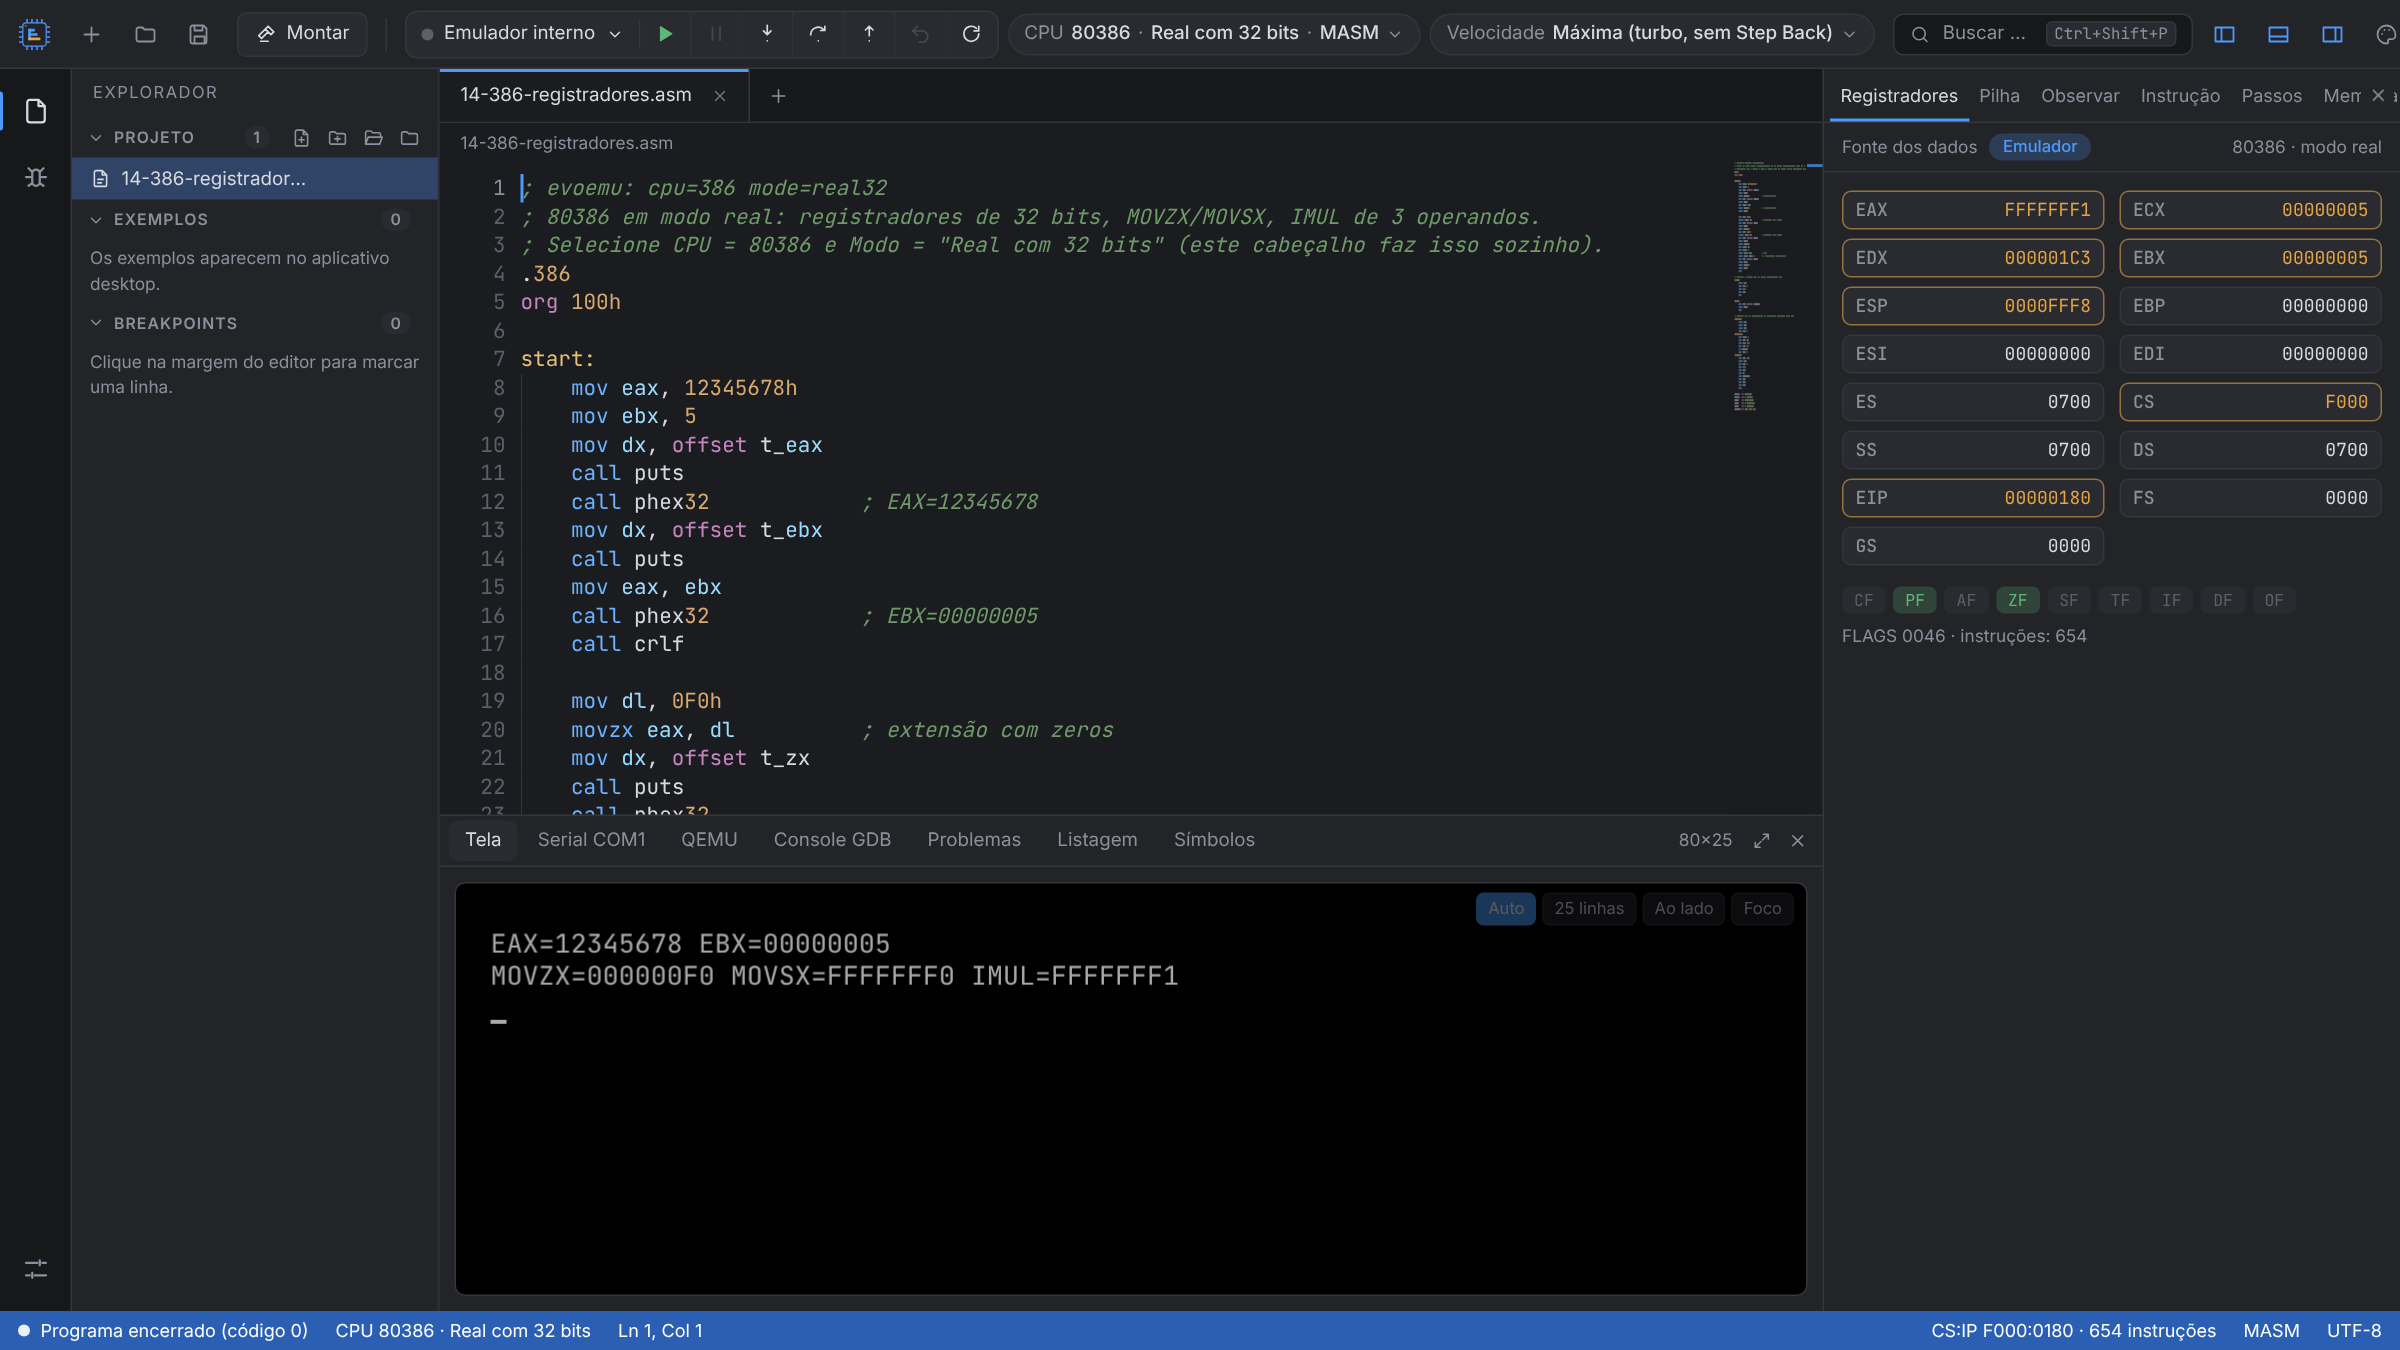
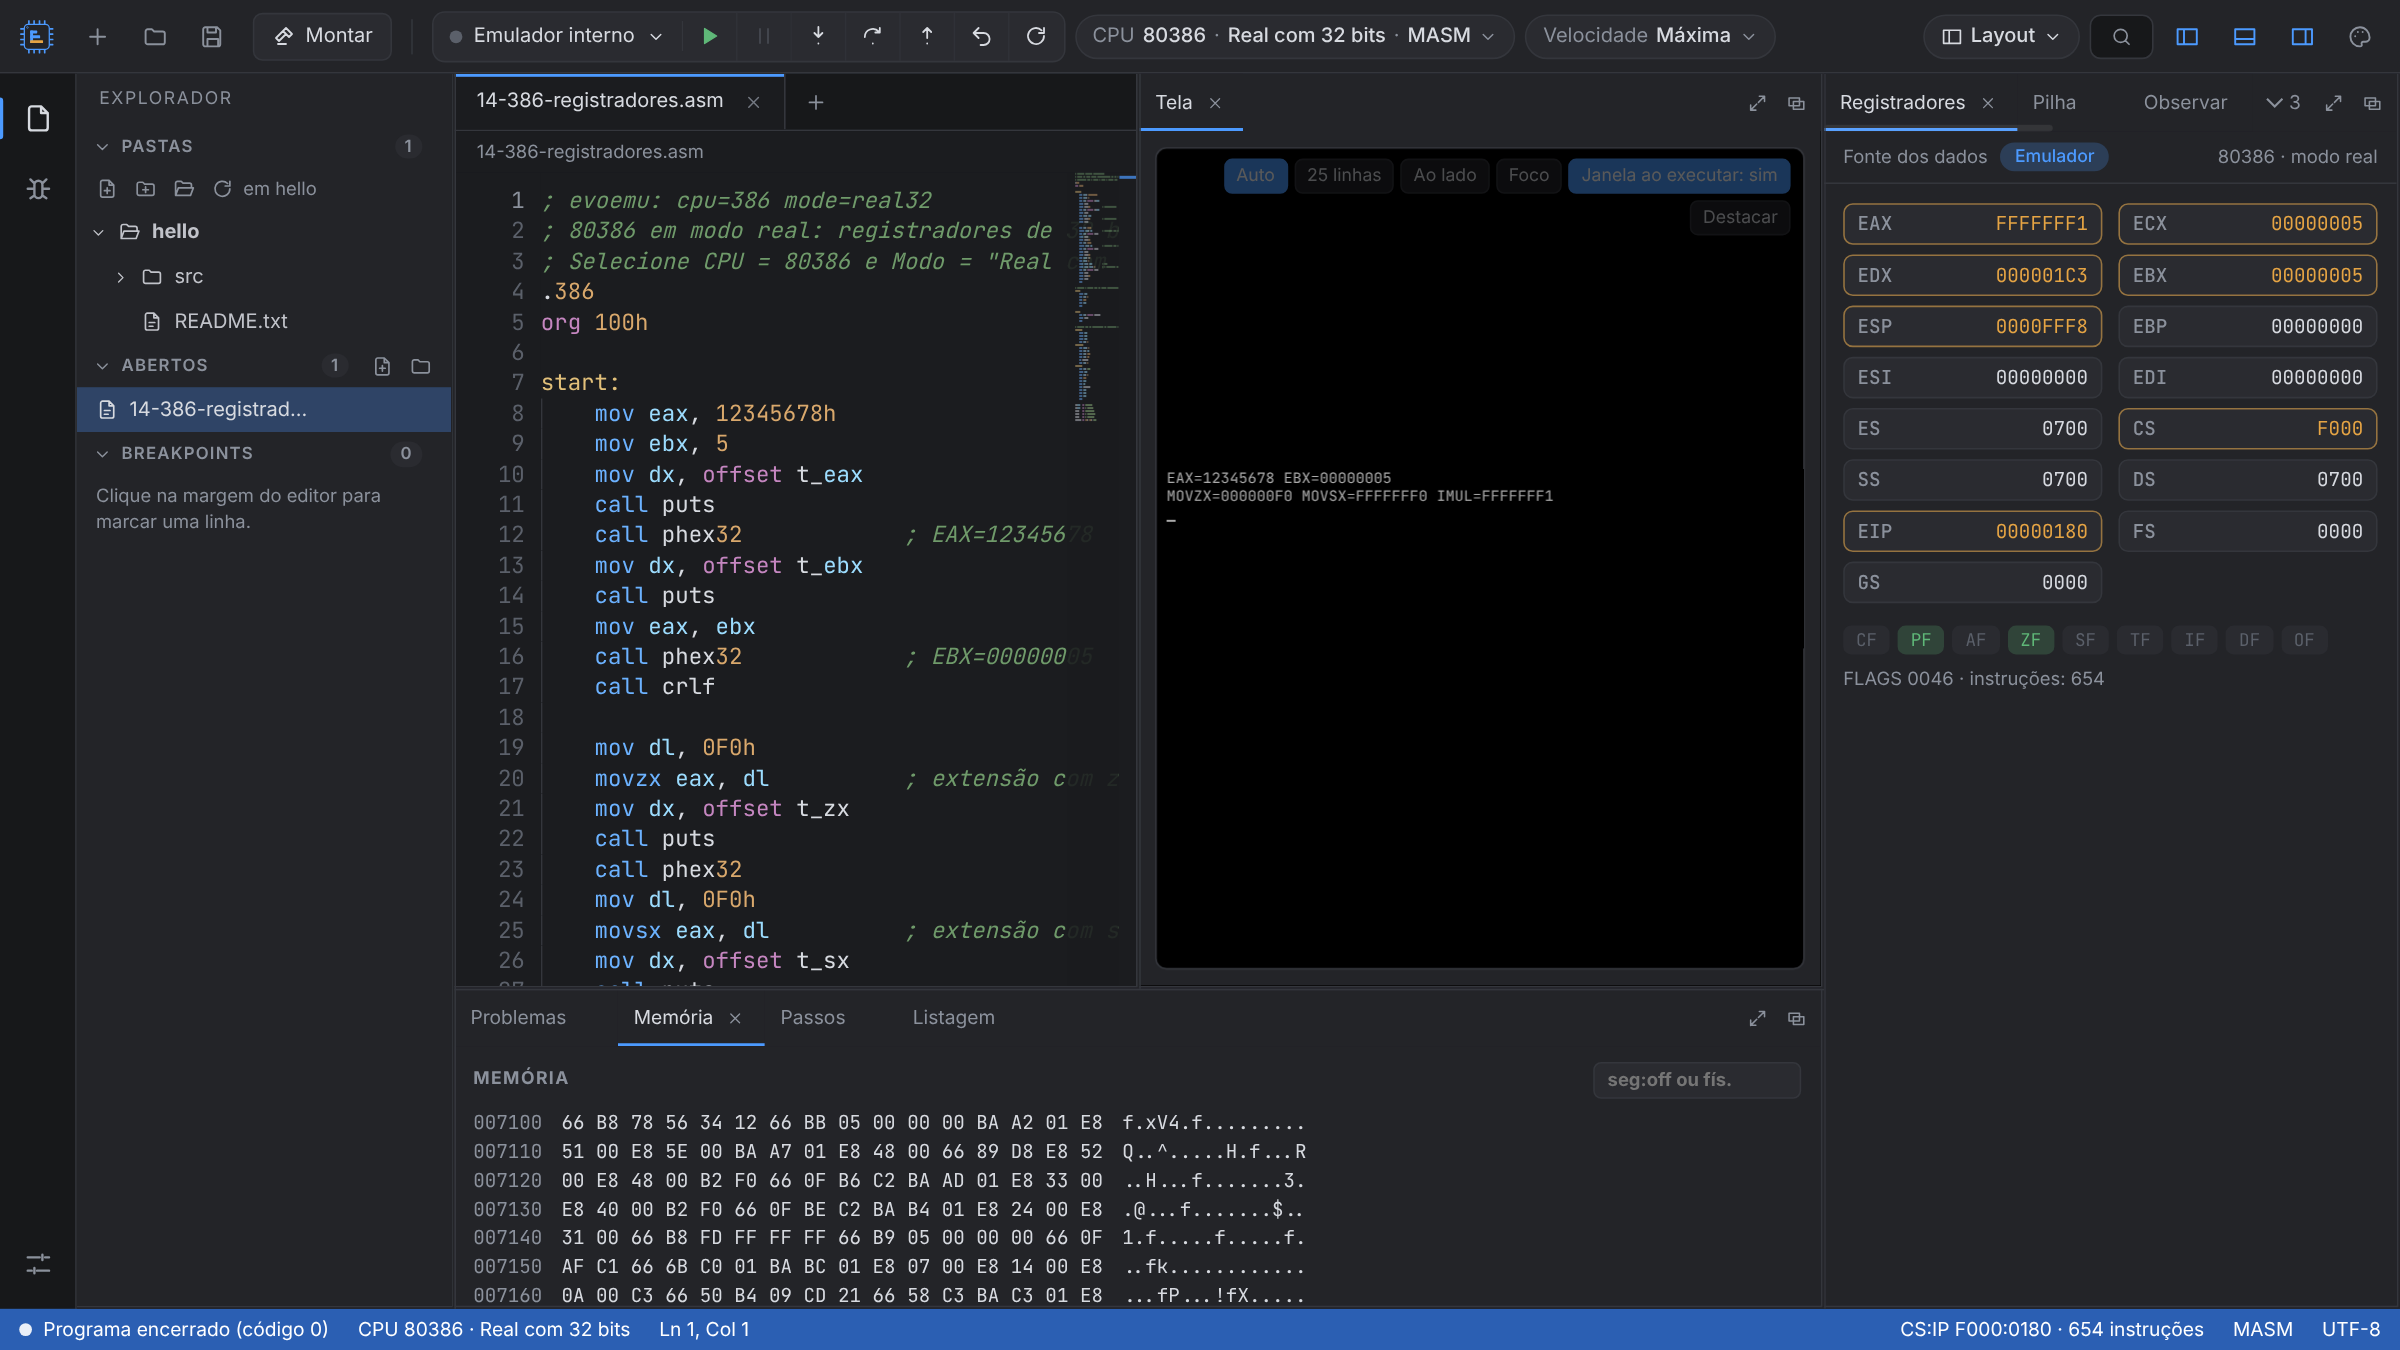
Capturas de tela atualizadas (interface atual) e destaques novos

diff --git a/README.md b/README.md
@@ -10,11 +10,16 @@ IDE + emulador **x86 do 80386 ao Pentium** (modo real 16/32 bits e modo protegid
 - **Depurador:** passo a passo, passo sobre, voltar um passo, registradores de 32 bits e flags, pilha, memória, observação de variáveis e desmontagem.
 - **Tela de texto 80×25** que pode ficar embaixo, ao lado do editor, em modo foco (tela cheia) ou em **janela própria** ao executar.
 - **Precisão:** núcleo validado contra os vetores do SingleStepTests (8086/8088, 80286 e 80386 em modo real).
-- Opcionalmente executa no **QEMU** e depura via GDB.
+- **Projetos de vários arquivos:** `INCLUDE` e módulos por `PUBLIC`/`EXTRN` viram um só programa, com erros apontando o arquivo e a linha; exporta **.EXE** e converte **EXE → COM/BIN**.
+- **Explorador de pastas reais:** adicione pastas existentes, crie, renomeie, mova e exclua (Lixeira) direto no disco; configuração do projeto em `evo.project.json`.
+- **GROUP** (DGROUP/CGROUP) como no MASM/TASM, inclusive o modelo tiny que gera `.COM`.
+- Executa no **QEMU** (com GDB), no **DOSBox-X** com seus compiladores DOS nativos e tem **terminal WSL** integrado.
 
-![Tela ao lado do editor, executando um jogo da cobrinha](screenshots/02-tela-ao-lado.png)
+![Tela gráfica VGA ao lado do editor, com a paleta animada](screenshots/02-tela-ao-lado.png)
 
 ![Depuração passo a passo](screenshots/03-depuracao-passo-a-passo.png)
+
+![Projeto de dois arquivos, com a árvore de pastas reais e a aba Projeto](screenshots/04-projeto-multiarquivo.png)
 
 ## Download
 Na página **[Releases](../../releases/latest)**, em *Assets*:
